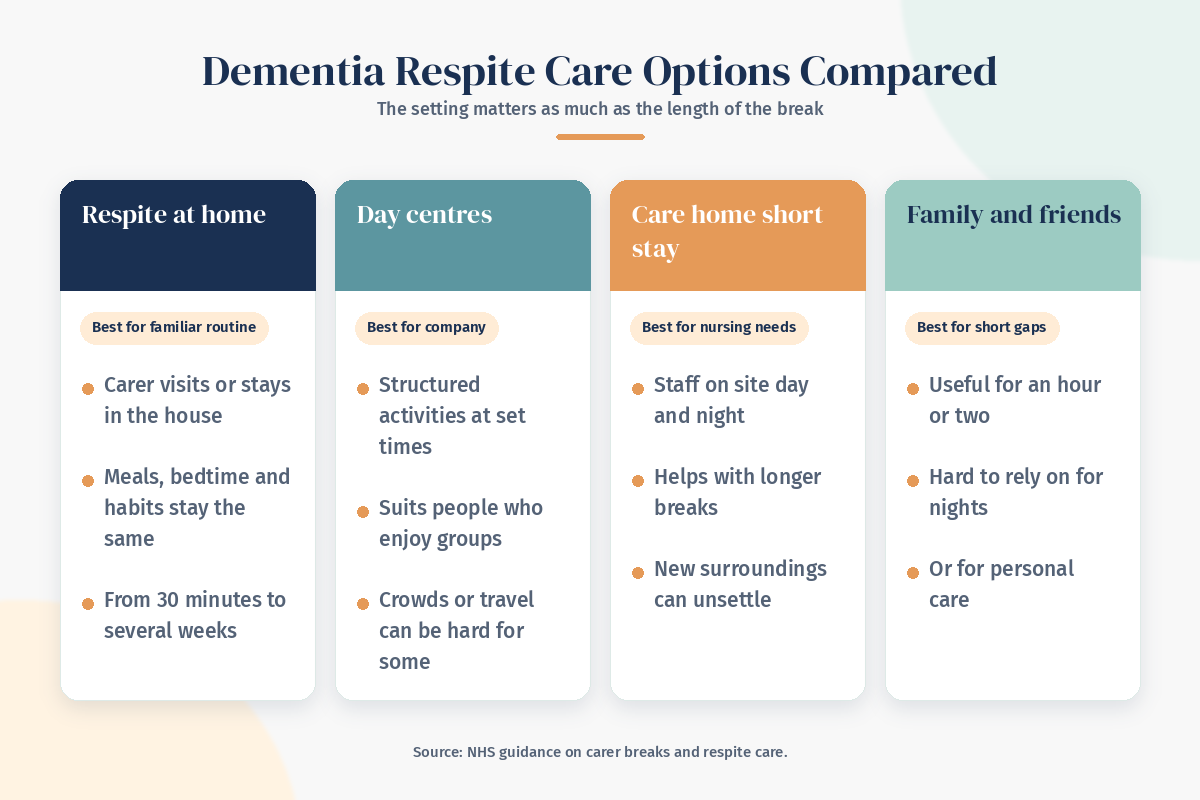
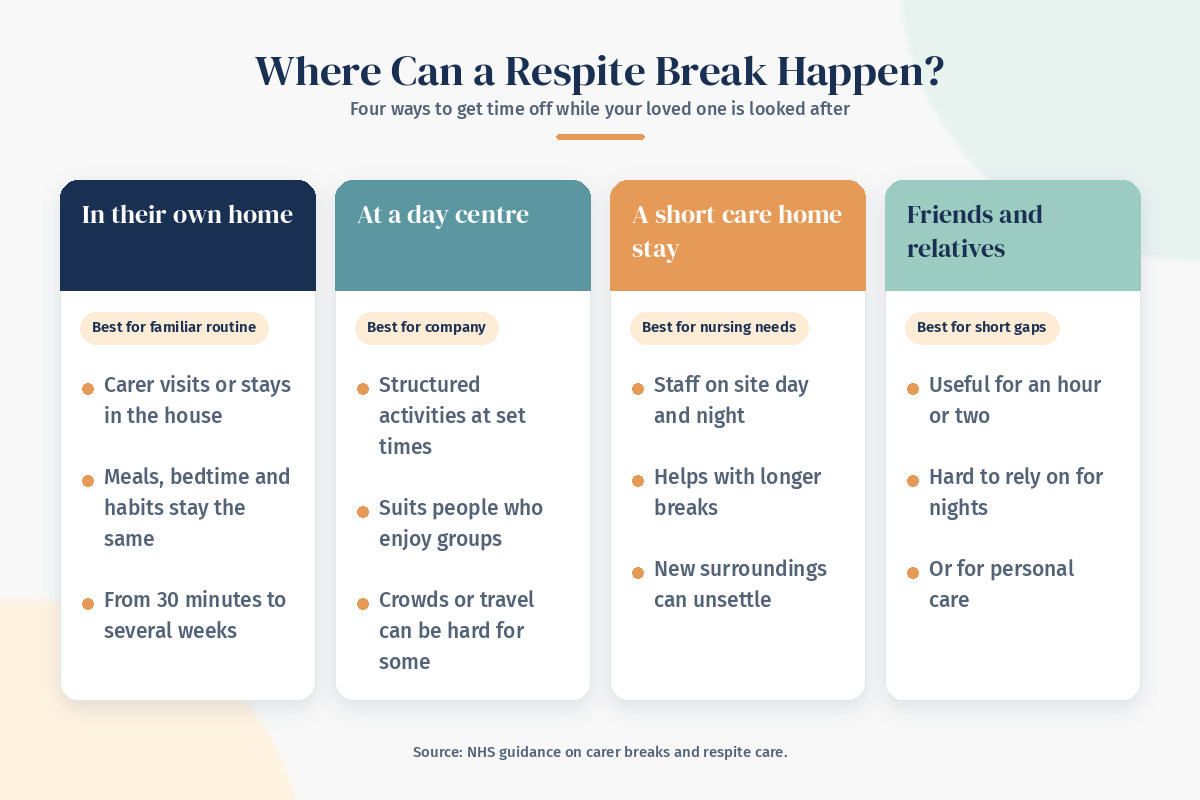
Reword respite graphics so titles don't repeat article headings
Claude-Session: https://claude.ai/code/session_012iSs7UT5B2wZwFj8sHQe5L

diff --git a/blog-images/dementia-respite-care/src/respite.py b/blog-images/dementia-respite-care/src/respite.py
@@ -46,15 +46,15 @@ def save(im, name):
 
 
 # ---------- in-article 1: respite options compared ----------
-im = canvas('Dementia Respite Care Options Compared', 'The setting matters as much as the length of the break')
+im = canvas('Where Can a Respite Break Happen?', 'Four ways to get time off while your loved one is looked after')
 opts = [
-    ('Respite at home', NAVY, WHITE, 'Best for familiar routine',
+    ('In their own home', NAVY, WHITE, 'Best for familiar routine',
      ['Carer visits or stays in the house', 'Meals, bedtime and habits stay the same', 'From 30 minutes to several weeks']),
-    ('Day centres', (92, 150, 160), WHITE, 'Best for company',
+    ('At a day centre', (92, 150, 160), WHITE, 'Best for company',
      ['Structured activities at set times', 'Suits people who enjoy groups', 'Crowds or travel can be hard for some']),
-    ('Care home short stay', AMBER, WHITE, 'Best for nursing needs',
+    ('A short care home stay', AMBER, WHITE, 'Best for nursing needs',
      ['Staff on site day and night', 'Helps with longer breaks', 'New surroundings can unsettle']),
-    ('Family and friends', TEAL, NAVY, 'Best for short gaps',
+    ('Friends and relatives', TEAL, NAVY, 'Best for short gaps',
      ['Useful for an hour or two', 'Hard to rely on for nights', 'Or for personal care']),
 ]
 cw, gap = 255, 20
@@ -79,12 +79,12 @@ footnote(im, 'Source: NHS guidance on carer breaks and respite care.', 742)
 save(im, 'dementia-respite-options-compared')
 
 # ---------- in-article 2: 2026 costs ----------
-im = canvas('How Much Does Dementia Respite Care Cost in 2026?', 'Typical UK prices by setting')
+im = canvas('Respite Prices at a Glance', 'What UK families typically pay this year')
 rows = [
-    ('Respite at home', '£26 to £38 an hour', 'Many families pay around £30 to £32. Specialist dementia support can reach £40+.'),
-    ('Example: 4 hour afternoon', '£120 to £128', 'Based on £30 to £32 an hour.'),
-    ('Care home short stay', '£700 to £800 a week', 'Average cited by the NHS. Varies by home and care needed.'),
-    ('Overnight and live in', 'Ask for a quote', 'Live in can be better value than many separate visits.'),
+    ('Carer visits at home', '£26 to £38 an hour', 'Many families pay around £30 to £32. Specialist dementia support can reach £40+.'),
+    ('A four hour afternoon off', '£120 to £128', 'Based on £30 to £32 an hour.'),
+    ('A week in a care home', '£700 to £800 a week', 'Average cited by the NHS. Varies by home and care needed.'),
+    ('Nights or a carer living in', 'Ask for a quote', 'Live in can be better value than many separate visits.'),
 ]
 y = 178
 for t, price, note in rows:
@@ -104,13 +104,13 @@ d.text(((W - tw) / 2, y + 28), msg, font=fB(19), fill=NAVY)
 save(im, 'dementia-respite-care-costs-2026')
 
 # ---------- in-article 3: how to arrange ----------
-im = canvas('How to Arrange Dementia Respite Care', 'Five steps, ideally before a crisis rather than during one')
+im = canvas('Your Respite Plan in 5 Steps', 'Plan the break before you need it')
 steps = [
-    ('Ask for assessments', 'A needs assessment for your relative and a carer’s assessment for you.'),
-    ('Decide what you need', 'Weekly hours, a week of nights, a holiday or an emergency backup.'),
-    ('Book a home assessment', 'We meet your relative and learn their routines, likes and worries.'),
-    ('Try a short trial', 'A few visits first so your relative gets to know the carer.'),
-    ('Review afterwards', 'Tell us what worked. Regular respite usually helps most.'),
+    ('Get assessed', 'Ask the council to assess your relative’s needs, and yours as a carer.'),
+    ('Pick the type of break', 'Regular afternoons, a run of nights, a holiday or a backup plan.'),
+    ('Free home visit', 'Greenwood meets your relative and gets to know their routine.'),
+    ('Start small', 'Short visits first, so the carer becomes a familiar face.'),
+    ('Check in and adjust', 'Share what worked and fine-tune the plan for next time.'),
 ]
 y = 176
 for i, (t, body) in enumerate(steps):
